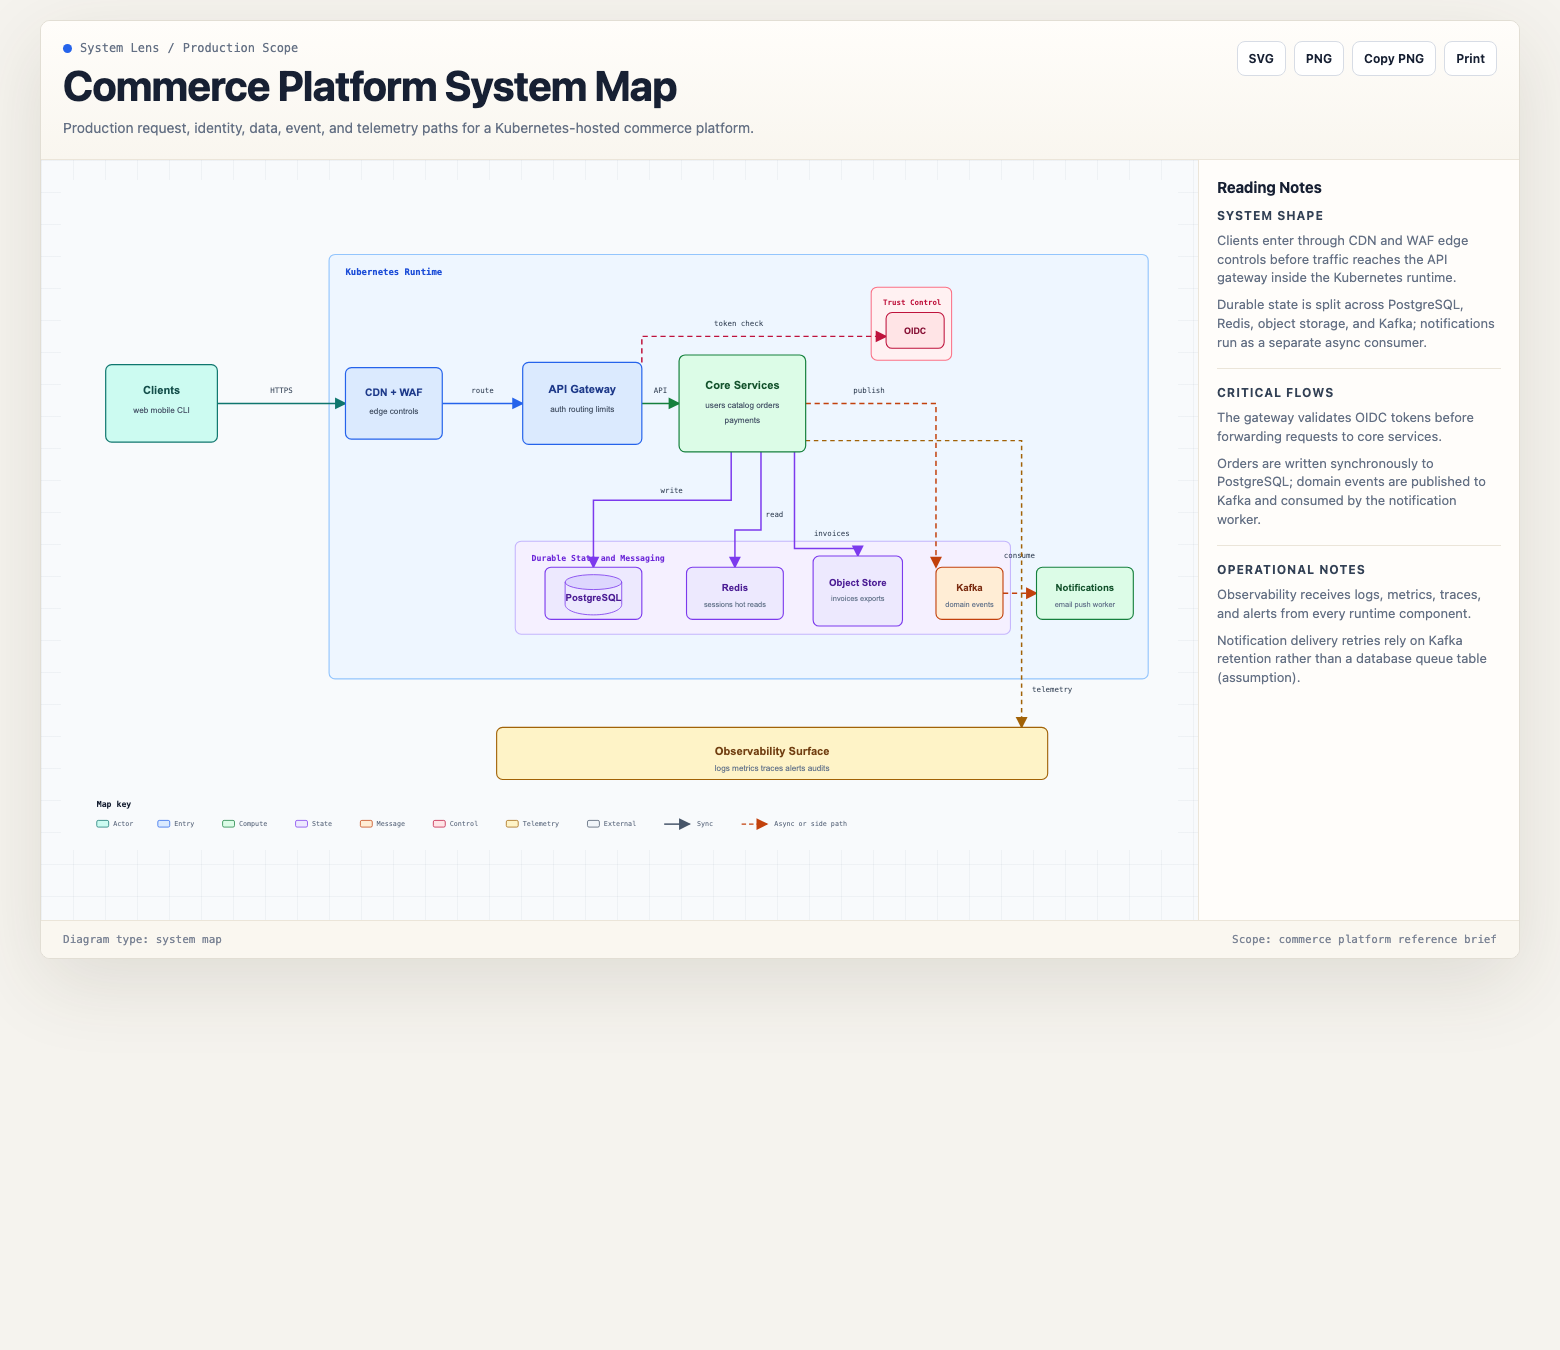
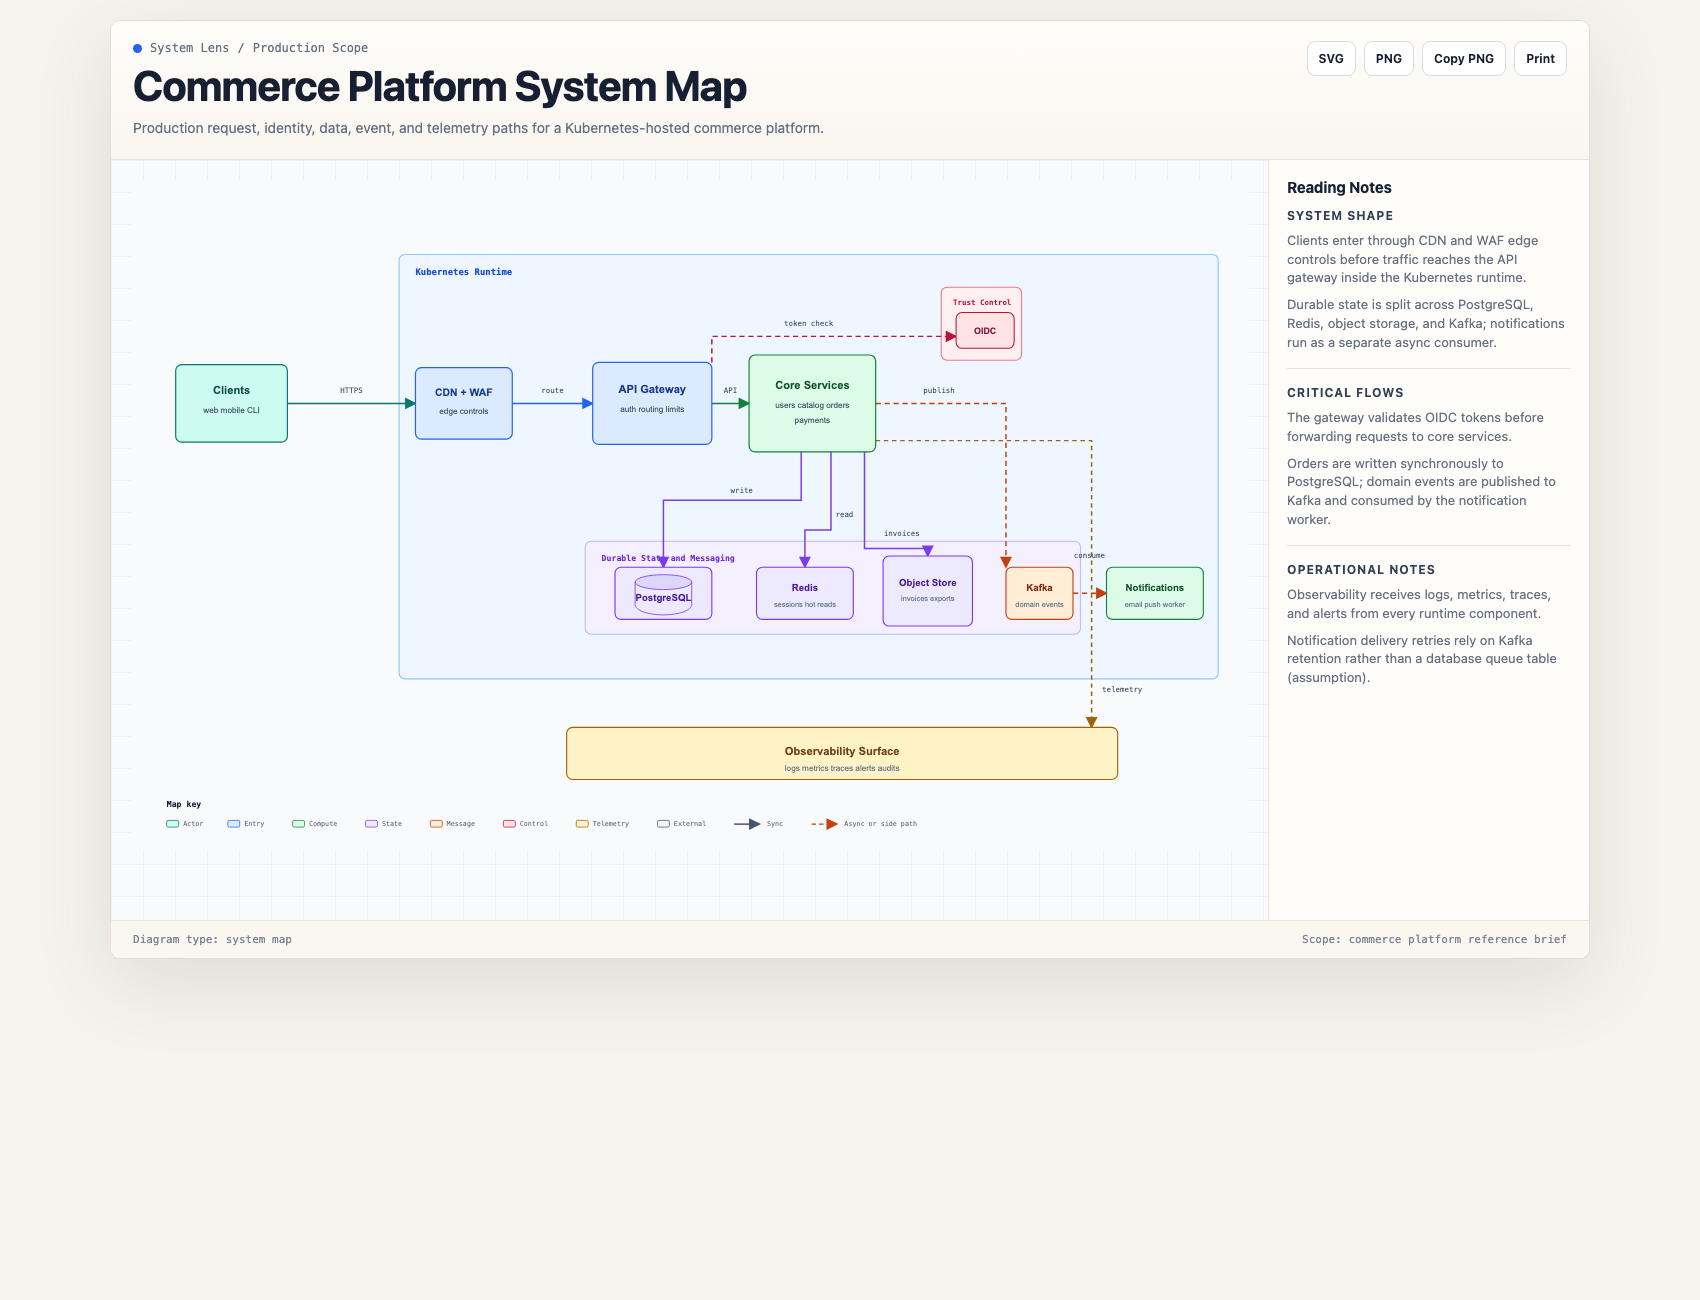
docs(diagram-generator): showcase lens examples with rendered screenshots
Replace the bullet-only lens list with per-lens screenshots: refresh the
system map render and add infrastructure, trust, data-movement, and
process maps, each validated with check-diagram.mjs.

diff --git a/skills/diagram-generator/README.md b/skills/diagram-generator/README.md
@@ -6,15 +6,39 @@ The package is designed for agent environments such as Claude, Codex, Cursor, Op
 
 ## What It Produces
 
-![Example system map: the commerce platform rendered from the known-good fixture](docs/example-system-map.png)
+The generator picks one of seven lenses and renders a standalone HTML/SVG map. Below are examples of the lenses in action, each rendered from a short brief and validated with `scripts/check-diagram.mjs`.
 
-- System architecture maps
-- Repository implementation maps
-- Infrastructure and runtime maps
-- Trust and security maps
-- Data movement maps
-- Deployment placement maps
-- Process and sequence-style maps
+### System lens
+
+![System map: a commerce platform with clients, API gateway, services, PostgreSQL, Redis, Kafka, object storage, and an OIDC provider](docs/example-system-map.png)
+
+Service relationships, user entry points, storage ownership, external integrations, and operational context.
+
+### Infrastructure lens
+
+![Infrastructure map: a multi-region deployment with CDN, global load balancer, two Kubernetes regions, managed databases, object storage, and a message bus](docs/example-infrastructure-map.png)
+
+Regions, clusters, networks, gateways, managed services, object stores, queues, containers, and deployment placement.
+
+### Trust lens
+
+![Trust map: public clients crossing a trust boundary where auth, token validation, policy, and secrets are enforced before private services run](docs/example-trust-map.png)
+
+Identity providers, public/private boundaries, privileged operations, secrets, policy checks, token validation, and administrative paths.
+
+### Data movement lens
+
+![Data movement map: web and IoT producers feeding an event stream that fans out to a warehouse, search index, and object store](docs/example-data-movement-map.png)
+
+Ingestion, replication, event streams, durable records, transformations, search indexes, exports, and reporting.
+
+### Process lens
+
+![Process map: an ordered CI/CD pipeline from commit through build, test, approval, staging, and production with a monitoring feedback loop](docs/example-process-map.png)
+
+Ordered interactions, approval chains, incident response, automation pipelines, and sequence-like flows.
+
+Also supported: **implementation maps** (repository-derived stages, script execution chains, generated artifacts) and **deployment placement maps** (workload-to-infra allocation).
 
 ## Output Contract
 
@@ -58,7 +82,11 @@ diagram-generator/
 │   ├── drawio-mode-prompt.md
 │   └── portable-agent-smoke-test-prompt.md
 ├── docs/
-│   └── example-system-map.png
+│   ├── example-system-map.png
+│   ├── example-infrastructure-map.png
+│   ├── example-trust-map.png
+│   ├── example-data-movement-map.png
+│   └── example-process-map.png
 ├── tests/
 │   ├── platform-smoke-tests/
 │   └── fixtures/
